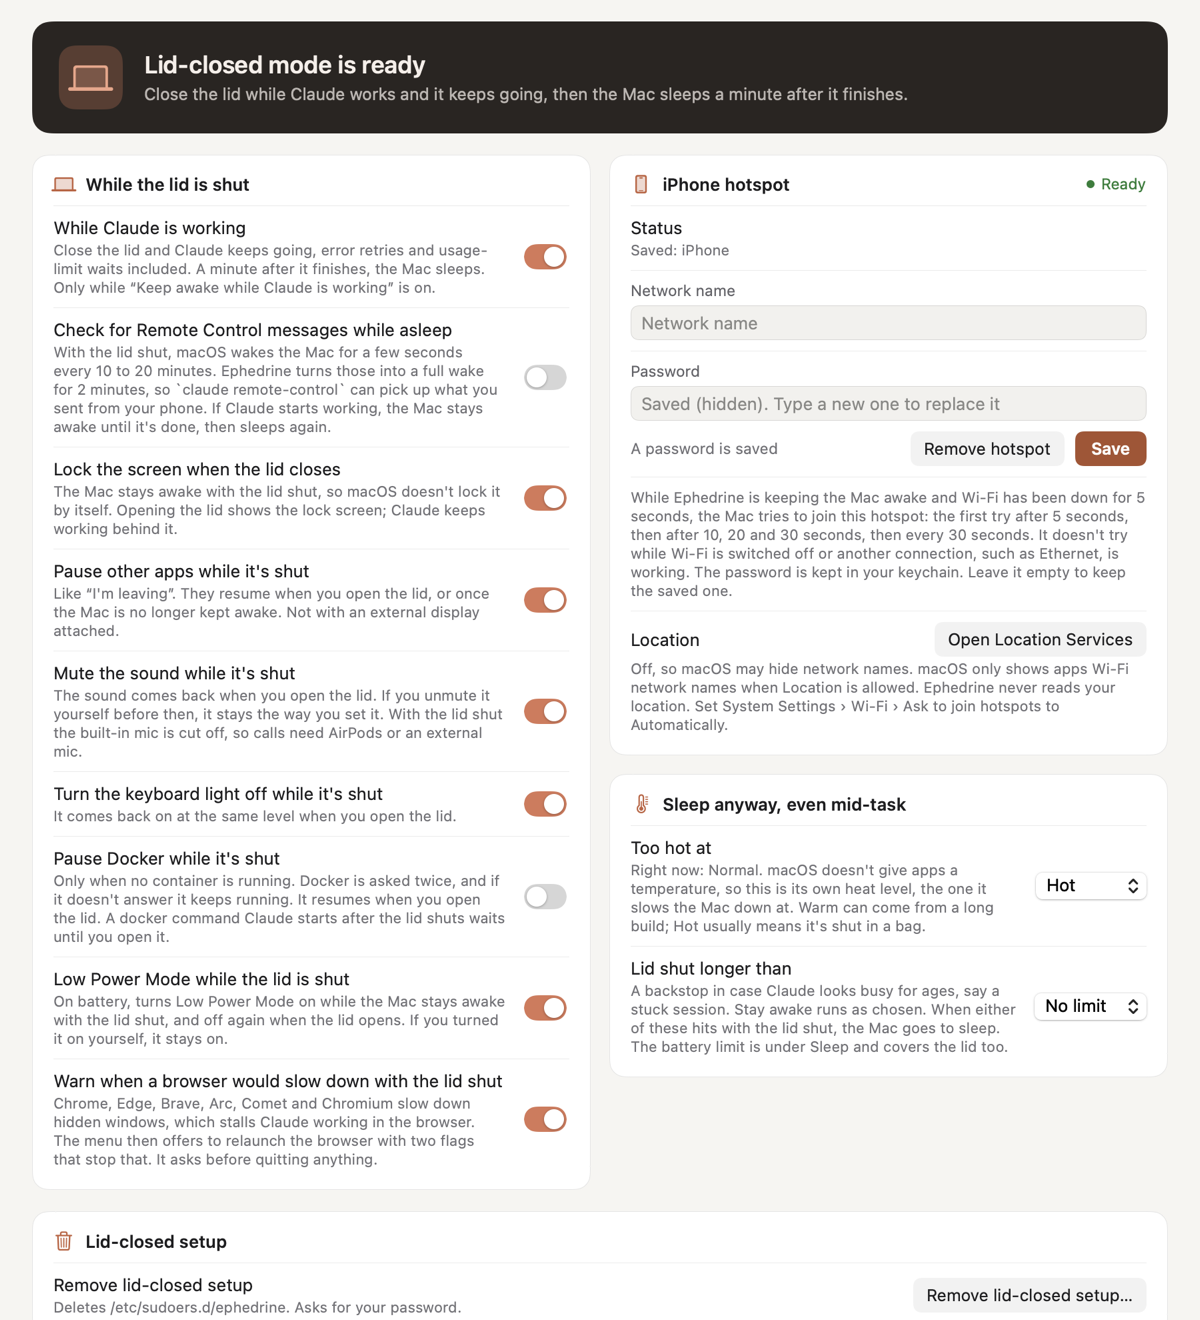
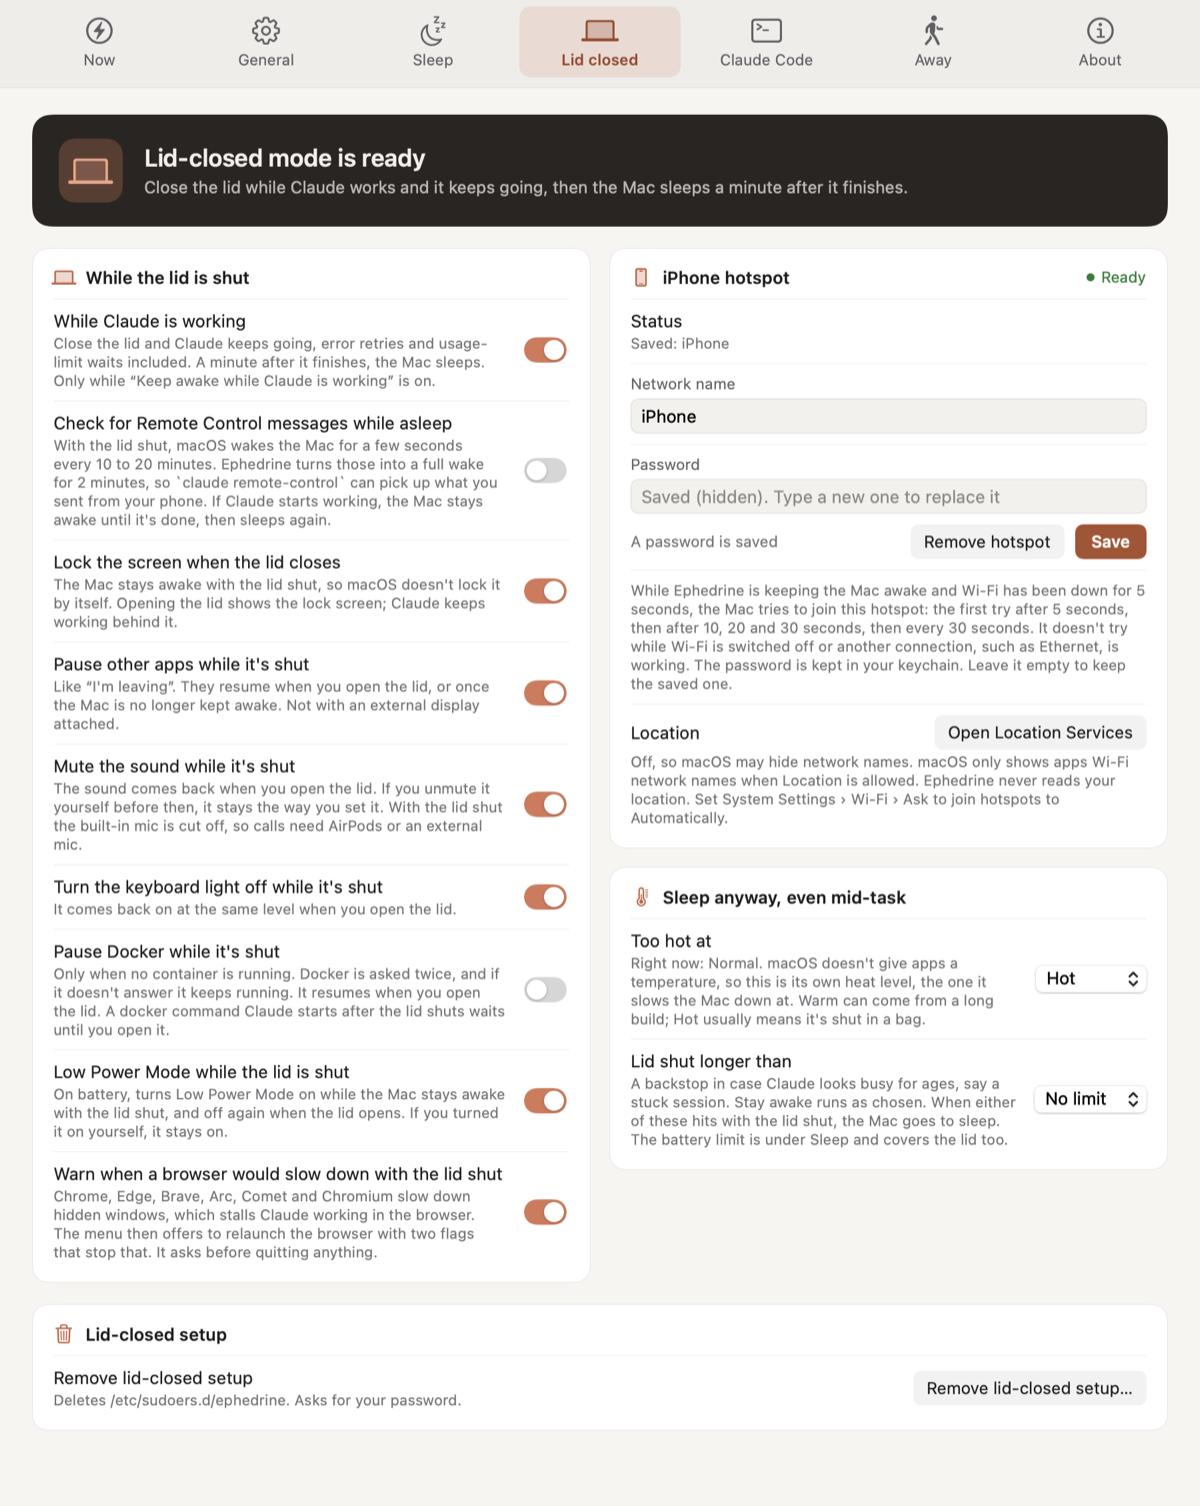
README: fix menu description, screenshots and FAQ wording

diff --git a/README.md b/README.md
@@ -75,7 +75,7 @@ Your Claude session and weekly limits show in the menu, with an alert at a level
 
 ### The menu
 
-The menu opens with a card that says what's keeping the Mac awake and what happens next. Under that are small chips for the lid, the watts going in or out, the battery and the Wi-Fi name. Below those it lists what Ephedrine is holding right now (apps paused, Docker paused, sound muted, Low Power Mode on, the length of the last network gap), then anything that needs you, like another app having turned sleep off or a browser that would slow down. While you're on battery it also shows the battery limit.
+The menu opens with a card that says what's keeping the Mac awake and what happens next. Under that are small chips for the watts going in or out, the battery and the Wi-Fi name. The rows underneath show what the lid, Low Power Mode, the lid-shut extras, cmux, the hotspot and the network are doing right now, plus what you can do about it. Below those it lists what Ephedrine is holding (apps paused, Docker paused, sound muted, Low Power Mode on, the length of the last network gap), then anything that needs you, like another app having turned sleep off or a browser that would slow down. Orange marks anything that needs you. While you're on battery it also shows the battery limit.
 
 The icon is a coffee cup with Claude's spark as the steam. In Settings you can have it match the menu bar, show an orange spark, or change color with the state.
 
@@ -100,7 +100,7 @@ To update, run `brew upgrade ephedrine`, then `ephedrine setup` again to swap in
 2. Go through the setup screen and click only the permissions you want. Nothing is requested until you click its button.
 3. Restart any Claude Code session that was already open, then start a task. The menu card says what is keeping the Mac awake.
 
-Lid-closed mode, the Terminal helpers and the usage meter are all optional and live in Settings.
+Lid-closed mode and the Terminal helpers are optional and live in Settings. The usage meter needs Keychain access to Claude Code's sign-in, and everything else works without it.
 
 ## Using it
 
@@ -163,19 +163,17 @@ One private API is involved: `SACLockScreenImmediate` (login.framework) locks th
 
 ## Advanced features
 
+<a id="pausing-apps"></a>
 <details>
 <summary>Pausing apps</summary>
-
-<a id="pausing-apps"></a>
 
 "I'm leaving" and the lid pause stop every regular app except the ones on the keep-running list. Pausing an app also pauses the helper processes it started (Electron apps have several), and they all come back together. The Away pane has an "Always pause" list for apps that should stop even if they'd normally be kept running. Any app that is hosting Claude Code, such as a terminal or an editor, is never paused. Docker Desktop is never paused by this rule either, only by the Docker option under [With the lid shut](#with-the-lid-shut).
 
 </details>
 
+<a id="with-the-lid-shut"></a>
 <details>
 <summary>With the lid shut (Low Power Mode, sound, keyboard light, Docker, browsers)</summary>
-
-<a id="with-the-lid-shut"></a>
 
 These happen while lid-closed mode keeps the Mac awake with the lid shut and no external display, whether for Claude or for Stay awake, and are undone when you open the lid or Ephedrine quits. A Remote Control check-in counts too: for its 2-minute window apps are paused and the sound is muted, if you have those on, and Low Power Mode and the Docker pause only start if the check-in turns into work. If the app crashes, a watchdog undoes what a shell can, and the next launch finishes the rest.
 
@@ -200,10 +198,9 @@ Settings shows the command with your pane filled in. Panes that are dead, in cop
 
 </details>
 
+<a id="cmux"></a>
 <details>
 <summary>cmux</summary>
-
-<a id="cmux"></a>
 
 cmux is on the keep-running list, so it keeps going while you're away. For the Terminal helpers to work there too (typing `continue`, waiting out a usage limit, noticing Claude is busy), set cmux's Automation setting to Password mode, then type that password in Settings, Claude Code, cmux. Ephedrine keeps it in your keychain and hands it to cmux's command line through an environment variable. Until then Settings says "Not connected" and only Terminal.app is used. It only types into an empty Claude Code prompt or its limit menu, the same as in Terminal.
 
@@ -227,7 +224,7 @@ macOS slows down apps it thinks you aren't looking at. If you turn on "Never let
 
 ### The icon still looks old after an upgrade
 
-Run `killall Dock`. macOS caches the app icon.
+If the old icon still shows after an upgrade, macOS is showing a cached copy. Run `killall Dock`.
 
 ### macOS asked for permissions again after an upgrade
 
@@ -267,7 +264,7 @@ swift test                # needs full Xcode for the Testing framework
 
 The decision logic (hook markers, terminal text parsing, lid-closed rules, usage parsing, settings) lives in `Sources/EphedrineCore` and has unit tests. `Sources/Ephedrine` is the app around it.
 
-To stop macOS re-asking for permissions after every rebuild, create a self-signed code-signing certificate called "Ephedrine Dev" in Keychain Access (Certificate Assistant → Create a Certificate). The build scripts use it automatically, or set `CODESIGN_IDENTITY` to another one.
+To stop macOS re-asking for permissions after every rebuild, create a self-signed code-signing certificate called "Ephedrine Dev" in Keychain Access (Certificate Assistant → Create a Certificate). The build scripts use it automatically, or set `CODESIGN_IDENTITY` to another one. `scripts/build.sh` also refreshes LaunchServices on every build, so Finder and the Dock pick up a changed icon.
 
 To try the lid features with the lid open, build the simulation variant with `LID_SIMULATION=1 scripts/build.sh`. It reads `~/.claude/ephedrine/simulate-lid` instead of the lid sensor, and the file says `closed` or `open`. With no file it uses the real lid. The menu shows "Lid simulation build" so you can't mistake it for the normal app. The normal build never reads that file.
 
